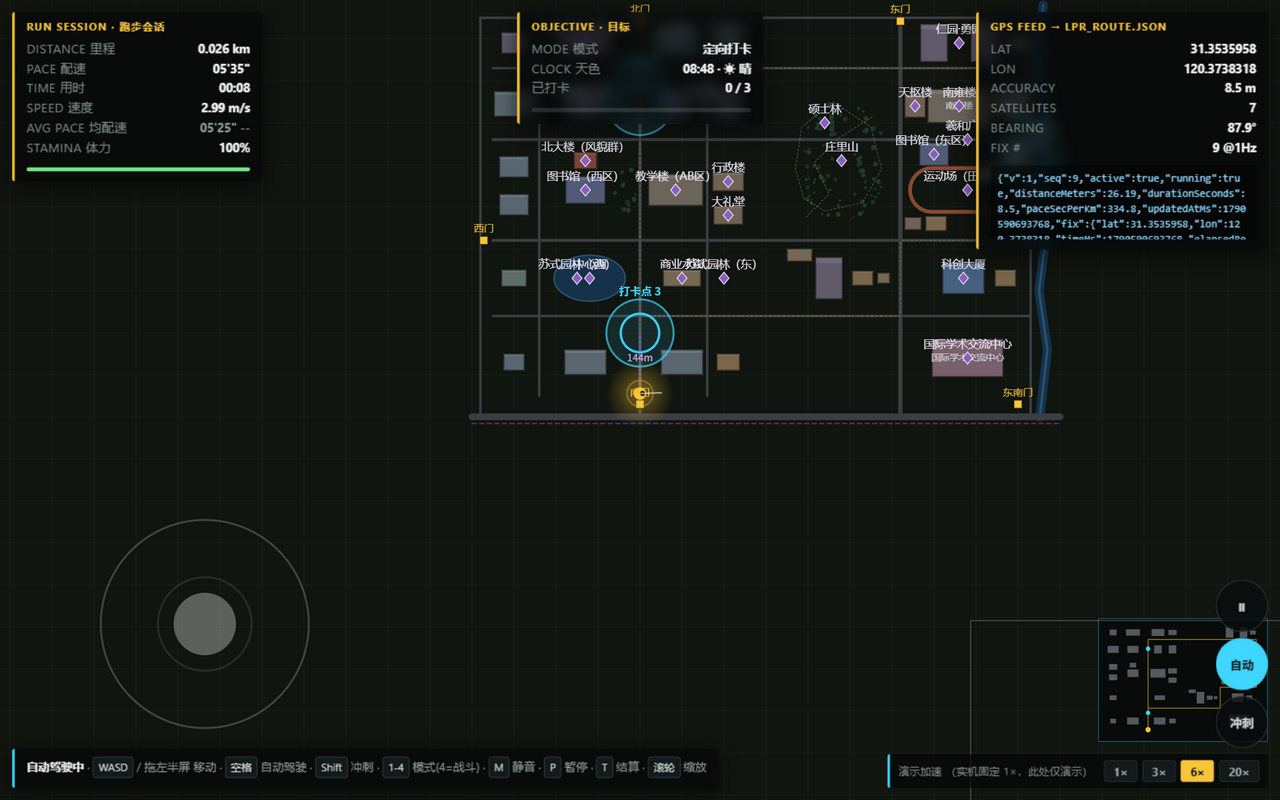
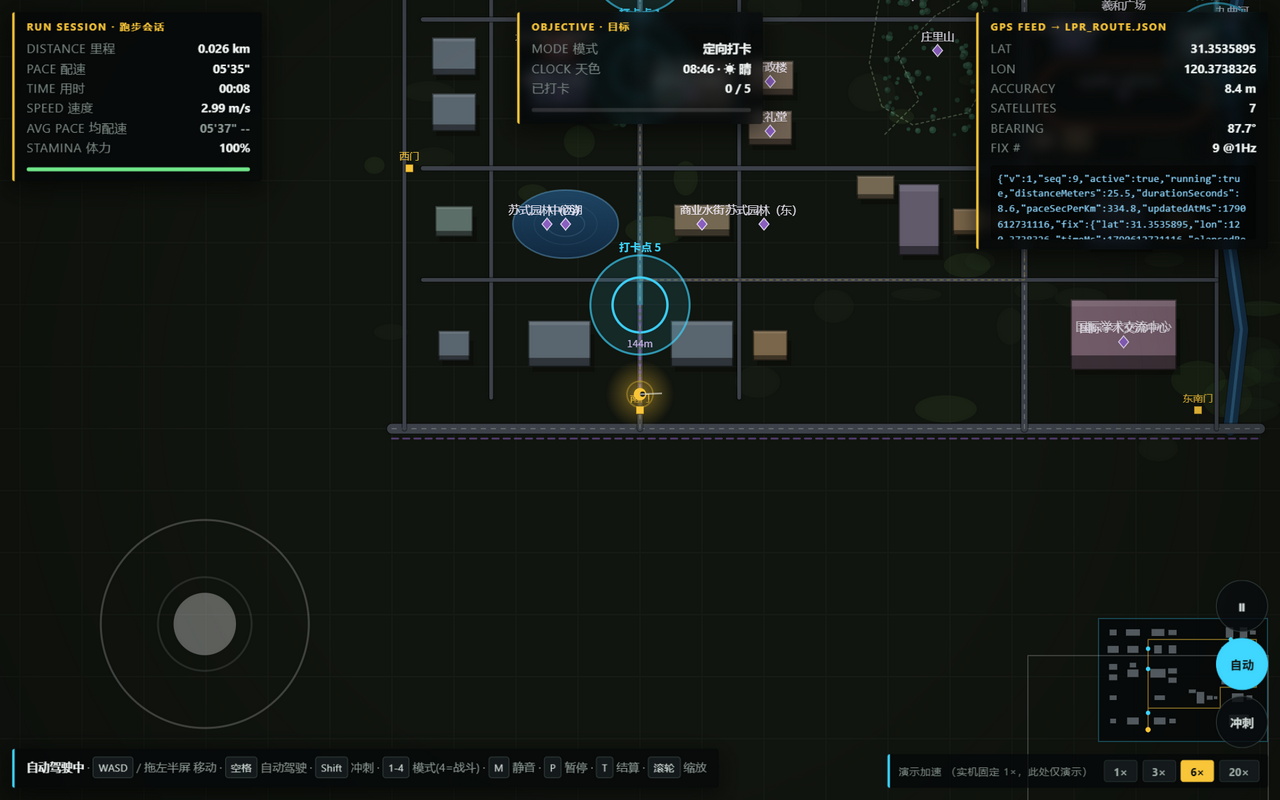
feat(render): 美术升级——建筑 2.5D 体块/草地斑/路缘虚线/水面渐变波光/树影/玩家投影/暗角
- 建筑：伪 2.5D（屋面+立面挤出+投影+描边），夜间屋面窗灯+立面暖窗两排
- 地面：确定性草地斑块贴片；道路加深色路缘与中央虚线；跑道加深色衬底
- 水面：纵深感渐变+扩散涟漪，河道暗缝+岸线；树/玩家脚下椭圆阴影
- 四角暗角渐变（缓存复用）；README 四图用新美术重拍

diff --git a/demo/js/render.js b/demo/js/render.js
@@ -24,16 +24,23 @@ function draw(){
   const L=cam.x-halfW, R=cam.x+halfW, Bo=cam.y-halfH, T=cam.y+halfH;
 
   drawGroundGrid(L,R,Bo,T,z);
+  drawGrass();
   drawWater();
   drawForest();
   for(const rd of CAMPUS.roads){
     if(rd.isTrack) continue;
     if(rd.style==="tram"){ drawRibbon(rd.pts, rd.w, "rgba(139,95,191,.55)", false, [10,8]); continue; }
-    drawRibbon(rd.pts, rd.w, "#3b3f45", rd.closed);
+    drawRibbon(rd.pts, rd.w+3.2, "rgba(0,0,0,.42)", rd.closed);
+    drawRibbon(rd.pts, rd.w, "#3d424a", rd.closed);
+    if(rd.w>=8) drawRibbon(rd.pts, 1.1, "rgba(222,228,214,.30)", rd.closed, [7,9]);
   }
   drawTrails();
   drawRibbon(CAMPUS.mainRoute.pts, 1.8, "rgba(249,198,58,.30)", true, [5,6]);
-  for(const rd of CAMPUS.roads){ if(rd.isTrack) drawRibbon(rd.pts, rd.w, "#8a4a32", rd.closed); }
+  for(const rd of CAMPUS.roads){
+    if(!rd.isTrack) continue;
+    drawRibbon(rd.pts, rd.w+2.5, "rgba(0,0,0,.35)", rd.closed);
+    drawRibbon(rd.pts, rd.w, "#8a4a32", rd.closed);
+  }
   for(const b of CAMPUS.buildings) drawBuilding(b);
   drawLandmarks();
   drawCheckpoints();
@@ -47,6 +54,7 @@ function draw(){
   if(tint.overlay){ ctx.fillStyle=tint.overlay; ctx.fillRect(0,0,W,H); }
   if(ENV.isCloudy()){ ctx.fillStyle="rgba(130,140,150,.10)"; ctx.fillRect(0,0,W,H); }
   if(ENV.isRain()){ ctx.fillStyle="rgba(50,70,100,.16)"; ctx.fillRect(0,0,W,H); drawRainFx(); }
+  drawVignette();
   drawMinimap();
 }
 
@@ -73,17 +81,28 @@ function drawNav(){
 }
 
 function drawWater(){
+  const t=performance.now()/1000;
   for(const w of (CAMPUS.water||[])){
     if(w.c){
       const [x,y]=w2s(w.c.x,w.c.y);
       const rx=w.rx*cam.zoom, ry=w.ry*cam.zoom;
       if(x+rx<-20||x-rx>W+20||y+ry<-20||y-ry>H+20) continue;
-      ctx.fillStyle="#16324a";
+      const g=ctx.createLinearGradient(x,y-ry,x,y+ry);
+      g.addColorStop(0,"#1e4563"); g.addColorStop(1,"#122a42");
+      ctx.fillStyle=g;
       ctx.beginPath(); ctx.ellipse(x,y,rx,ry,0,0,7); ctx.fill();
-      ctx.strokeStyle="rgba(90,160,210,.35)"; ctx.lineWidth=1.5; ctx.stroke();
+      ctx.strokeStyle="rgba(110,180,225,.4)"; ctx.lineWidth=1.5; ctx.stroke();
+      /* 涟漪波光 */
+      for(let i=0;i<3;i++){
+        const ph=(t*0.4+i*0.33)%1;
+        ctx.strokeStyle="rgba(150,205,240,"+(0.20*(1-ph)).toFixed(2)+")";
+        ctx.lineWidth=1.2;
+        ctx.beginPath(); ctx.ellipse(x,y,rx*0.15+rx*0.7*ph,ry*0.15+ry*0.7*ph,0,0,7); ctx.stroke();
+      }
     } else {
+      drawRibbon(w.pts, w.w+3, "rgba(0,0,0,.30)", false);
       drawRibbon(w.pts, w.w, "#16324a", false);
-      drawRibbon(w.pts, Math.max(1,w.w*0.25), "rgba(90,160,210,.30)", false);
+      drawRibbon(w.pts, Math.max(1,w.w*0.22), "rgba(90,160,210,.35)", false);
     }
   }
 }
@@ -94,9 +113,52 @@ function drawForest(){
     const [x,y]=w2s(t.x,t.y);
     if(x<-16||x>W+16||y<-16||y>H+16) continue;
     const r=Math.max(1,t.r*cam.zoom);
-    ctx.fillStyle = t.tone>0.5 ? "#1c3226" : "#213b2c";
+    ctx.fillStyle="rgba(0,0,0,.22)";
+    ctx.beginPath(); ctx.ellipse(x+r*0.28,y+r*0.38,r*0.9,r*0.48,0,0,7); ctx.fill();
+    ctx.fillStyle = t.tone>0.5 ? "#1c3226" : "#224030";
     ctx.beginPath(); ctx.arc(x,y,r,0,7); ctx.fill();
+    if(r>2.5){
+      ctx.fillStyle="rgba(255,255,255,.07)";
+      ctx.beginPath(); ctx.arc(x-r*0.25,y-r*0.28,r*0.55,0,7); ctx.fill();
+    }
   }
+}
+
+/* 草地斑块（确定性生成，避让道路/建筑） */
+let _grass=null;
+function drawGrass(){
+  if(cam.zoom<0.10) return;
+  if(!_grass){
+    _grass=[];
+    const rng=new Rng(20260928);
+    const b=CAMPUS.bounds;
+    for(let i=0;i<90;i++){
+      const x=rng.range(b.minX,b.maxX), y=rng.range(b.minY,b.maxY);
+      if(_nearAnyRoad(x,y,CAMPUS.roads,12)) continue;
+      if(_inAnyBuilding(x,y,CAMPUS.buildings,14)) continue;
+      _grass.push({x,y,rx:16+rng.next()*34,ry:10+rng.next()*22,tone:rng.next()});
+    }
+  }
+  for(const g of _grass){
+    const [x,y]=w2s(g.x,g.y);
+    const rx=g.rx*cam.zoom, ry=g.ry*cam.zoom;
+    if(x+rx<-10||x-rx>W+10||y+ry<-10||y-ry>H+10) continue;
+    ctx.fillStyle = g.tone>0.5 ? "rgba(44,62,34,.30)" : "rgba(28,40,24,.32)";
+    ctx.beginPath(); ctx.ellipse(x,y,rx,ry,0,0,7); ctx.fill();
+  }
+}
+
+/* 暗角（缓存径向渐变） */
+let _vig=null,_vigW=0,_vigH=0;
+function drawVignette(){
+  if(!_vig||_vigW!==W||_vigH!==H){
+    _vigW=W; _vigH=H;
+    _vig=ctx.createRadialGradient(W/2,H/2,Math.min(W,H)*0.46,W/2,H/2,Math.max(W,H)*0.74);
+    _vig.addColorStop(0,"rgba(0,0,0,0)");
+    _vig.addColorStop(1,"rgba(0,0,0,.38)");
+  }
+  ctx.fillStyle=_vig;
+  ctx.fillRect(0,0,W,H);
 }
 
 function drawTrails(){
@@ -158,30 +220,47 @@ function drawRibbon(pts, width, color, closed, dash){
 
 function drawBuilding(b){
   const c=BUILDING_COLORS[b.k]||[100,100,100];
-  const [x,y]=w2s(b.c.x+b.s.x/2, b.c.y+b.s.y/2);
-  const w=b.s.x*cam.zoom, h=b.s.y*cam.zoom;
-  const rx=x-w, ry=y;
+  const z=cam.zoom;
+  const [cx,cy]=w2s(b.c.x, b.c.y);
+  const w=b.s.x*z, h=b.s.y*z;
+  /* 伪 2.5D：屋面 + 立面挤出（视野远时压扁保持可读） */
+  const lift=Math.max(3.5, Math.min(16,(b.s.x+b.s.y)*0.055)) * Math.min(1, z*2.4);
+  const rx=cx-w/2, ry=cy-h/2;
+  if(rx+w<-60||rx>W+60||ry+h>H+60||ry-lift<-60) return;
+  const dk=Math.round(c[0]*0.52), dg=Math.round(c[1]*0.52), db=Math.round(c[2]*0.52);
 
+  /* 投影 */
+  ctx.fillStyle="rgba(0,0,0,.30)";
+  ctx.fillRect(rx+4, ry+5, w, h);
+  /* 立面（朝南墙面） */
+  ctx.fillStyle=`rgb(${dk},${dg},${db})`;
+  ctx.fillRect(rx, ry+h-lift, w, lift);
+  /* 屋面 */
   ctx.fillStyle=`rgb(${c[0]},${c[1]},${c[2]})`;
-  ctx.fillRect(rx,ry,w,h);
-  ctx.fillStyle=`rgba(255,255,255,.10)`;
-  ctx.fillRect(rx,ry,w,Math.max(1,h*0.14));
-  ctx.strokeStyle=`rgba(0,0,0,.45)`; ctx.lineWidth=1;
-  ctx.strokeRect(rx+.5,ry+.5,w-1,h-1);
+  ctx.fillRect(rx, ry-lift, w, h);
+  /* 屋面高光 */
+  ctx.fillStyle="rgba(255,255,255,.10)";
+  ctx.fillRect(rx, ry-lift, w, Math.max(1.5,h*0.12));
+  /* 描边 */
+  ctx.strokeStyle="rgba(0,0,0,.5)"; ctx.lineWidth=1;
+  ctx.strokeRect(rx+.5, ry-lift+.5, w-1, h+lift-1);
 
-  /* 夜间窗户灯（确定性伪随机亮窗） */
+  /* 夜间窗灯：屋面点缀 + 立面一排暖窗 */
   if(ENV.isNight() && w>14 && h>10){
     ctx.fillStyle="rgba(255,214,120,.75)";
-    for(let yy=ry+4; yy<ry+h-4; yy+=7)
+    for(let yy=ry-lift+4; yy<ry-lift+h-4; yy+=7)
       for(let xx=rx+4; xx<rx+w-5; xx+=7)
         if(((xx*13+yy*7)|0)%5<2) ctx.fillRect(xx,yy,2.2,2.6);
+    ctx.fillStyle="rgba(255,190,90,.62)";
+    for(let xx=rx+5; xx<rx+w-5; xx+=9)
+      ctx.fillRect(xx, ry+h-lift+1.5, 3.2, Math.max(1.5,lift-3));
   }
 
   if(w>62 && h>18){
     ctx.fillStyle="rgba(235,242,240,.72)";
     ctx.font=`${Math.min(12,Math.max(9,h*0.24))}px "Microsoft YaHei",sans-serif`;
     ctx.textAlign="center"; ctx.textBaseline="middle";
-    ctx.fillText(b.n, rx+w/2, ry+h/2);
+    ctx.fillText(b.n, rx+w/2, ry-lift+h/2);
   }
 }
 
